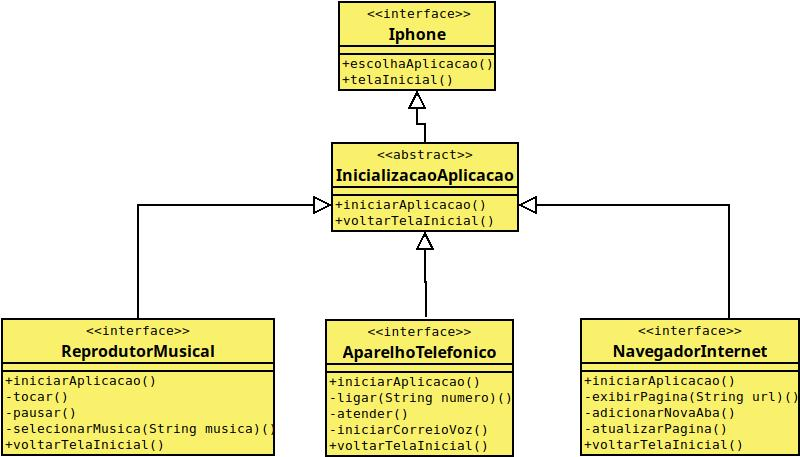
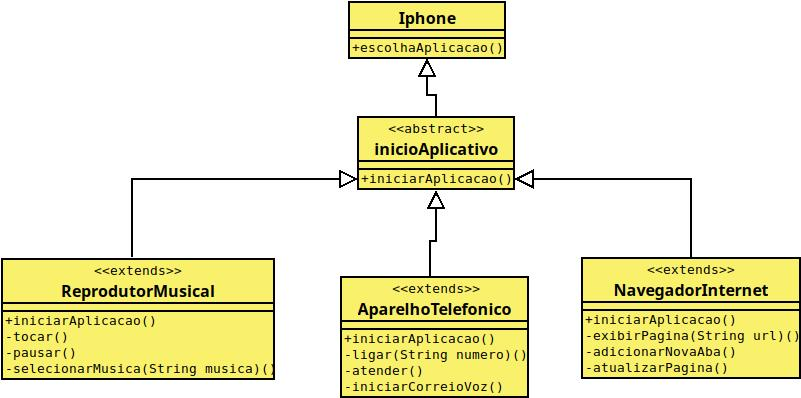
Consegui fazer o desafio

Changed region(s): [[0.0, 0.0, 1.0, 1.0]]

diff --git a/desafio/src/telefonico/AparelhoTelefonico.java b/desafio/src/telefonico/AparelhoTelefonico.java
@@ -1,0 +1,63 @@
+package telefonico;
+
+import java.util.Scanner;
+import inicio.inicioAplicativo;
+import iphone.Iphone;
+import java.util.InputMismatchException;
+import java.util.Locale;
+
+public class AparelhoTelefonico extends inicioAplicativo{
+	Scanner leitor = new Scanner(System.in);
+	
+	public void iniciarAplicacao() {
+		try {
+			System.out.println("============");
+			System.out.println(" 1 - Relizar ligação\n 2 - Atender Ligação\n 3 - Gravar um correio de Voz\n 4 - Voltar para tela inicial(vt)");
+			System.out.println("Digite uma das opções:");
+			int opcao = leitor.nextInt();
+		
+			switch(opcao) {
+			case 1:{
+				System.out.println("Digite o numero:");
+				leitor.next();
+				String numero = leitor.nextLine();
+				ligar(numero);
+				break;
+			}
+			case 2:{
+				atender();
+				break;
+			}
+			case 3:{
+				iniciarCorreioVoz();
+				break;
+			}
+			case 4:{
+				Iphone.escolhaAplicacao(null);
+				break;
+			}
+			default:
+				System.out.println("Opção Invalida.");
+				iniciarAplicacao();
+			}		
+			leitor.close();
+		}catch(InputMismatchException e){
+			System.out.println("Informe um valor valido!");
+			Iphone.escolhaAplicacao(null);
+		}
+	}
+
+
+
+
+	private void ligar(String numero) {
+		System.out.println("Chamando ...");
+	}
+	private void atender() {
+		System.out.println("Ligação em andamento");
+	}
+	private void iniciarCorreioVoz() {
+		System.out.println("Mensagem encaminhada para o correio de voz");
+	}
+
+}

diff --git a/desafio/src/navegador/NavegadorInternet.java b/desafio/src/navegador/NavegadorInternet.java
@@ -1,0 +1,61 @@
+package navegador;
+
+import java.util.Scanner;
+import inicio.inicioAplicativo;
+import java.util.InputMismatchException;
+import java.util.Locale;
+import iphone.Iphone;
+
+public class NavegadorInternet extends inicioAplicativo{
+	Scanner leitor = new Scanner(System.in);
+	
+	public void iniciarAplicacao() {
+		try {
+			System.out.println("============");
+			System.out.println(" 1 - Pesquisar\n 2 - Adicionar uma nova aba\n 3 - Atualizar Pagina\n 4 - Voltar para tela inicial");
+			System.out.println("O que você deseja?");
+			int opcao = leitor.nextInt();
+		
+			switch(opcao){
+				case 1:{
+					System.out.println("Campo de pesquisa:");
+					leitor.next();
+					String url = leitor.nextLine();
+					exibirPagina(url);
+					break;
+				}
+				case 2:{
+					adicionarNovaAba();
+					break;
+				}
+				case 3:{
+					atualizarPagina();
+					break;
+				}
+				case 4:{
+					Iphone.escolhaAplicacao(null);
+					break;
+				}
+				default:
+					System.out.println("Opção Invalida.");
+					iniciarAplicacao();
+			}		
+			leitor.close();
+		}catch(InputMismatchException e){
+			System.out.println("Informe um valor valido!");
+			Iphone.escolhaAplicacao(null);
+		}
+	}
+	
+	
+	
+	private void exibirPagina(String url) {
+		System.out.println("Exibindo: " + url);
+	}
+	private void adicionarNovaAba() {
+		System.out.println("Adicionando nova aba");
+	}
+	private void atualizarPagina() {
+		System.out.println("Pagina atualizada");
+	}
+}

diff --git a/desafio/src/musica/ReprodutorMusical.java b/desafio/src/musica/ReprodutorMusical.java
@@ -1,0 +1,64 @@
+package musica;
+
+import java.util.InputMismatchException;
+import java.util.Scanner;
+import inicio.inicioAplicativo;
+import iphone.Iphone;
+import java.util.Locale;
+
+
+public class ReprodutorMusical extends inicioAplicativo{
+	Scanner leitor = new Scanner(System.in);
+	
+	public void iniciarAplicacao() {
+		
+		try {
+			System.out.println("============");
+			System.out.println(" 1 - Play\n 2 - Stop\n 3 - Selecionar\n 4 - Voltar para tela inicial(vt)");
+			System.out.println("O que você deseja?");
+			int opcao = leitor.nextInt();
+		
+			switch(opcao) {
+			case 1:{
+				tocar();
+				break;
+			}
+			case 2:{
+				pausar();
+				break;
+			}
+			case 3:{
+				System.out.println("Informe a musica:");
+				leitor.next();
+				String musica = leitor.nextLine();
+				selecionarMusica(musica);
+				break;
+			}
+			case 4:{
+				Iphone.escolhaAplicacao(null);
+				break;
+			}
+			default:
+				System.out.println("Opção Invalida.");
+				iniciarAplicacao();
+			}
+		
+			leitor.close();		
+		}catch(InputMismatchException e){
+			System.out.println("Informe um valor valido!");
+			Iphone.escolhaAplicacao(null);
+		}
+	}
+	
+
+	private void tocar() {
+		System.out.println("Musica tocando");
+	}
+	private void pausar() {
+		System.out.println("Musica pausada");
+	}
+	private void selecionarMusica(String musica) {
+		System.out.println("Tocando: " + musica);
+	}
+	
+}

diff --git a/desafio/src/iphone/Iphone.java b/desafio/src/iphone/Iphone.java
@@ -1,0 +1,50 @@
+package iphone;
+
+import java.util.InputMismatchException;
+import java.util.Scanner;
+import java.util.Locale;
+import musica.ReprodutorMusical;
+import telefonico.AparelhoTelefonico;
+import navegador.NavegadorInternet;
+
+public class  Iphone {
+	public static void escolhaAplicacao(String[] args) {
+		try {
+		System.out.println("==================================================================");
+		System.out.println("Parabens por utilizar Iphone! ^-^");	
+		
+		Scanner leitor = new Scanner (System.in);		
+
+		System.out.println("Escolha uma de nossas aplicações informando sua letra:");
+		System.out.println(" Aparelho Telefonico(1)\n Navegador Internet(2)\n Reprodutor Musical(3)");
+		int opcao = leitor.nextInt();
+		
+		
+			switch(opcao) {
+				case 1:{
+					AparelhoTelefonico at = new AparelhoTelefonico();
+					at.iniciarAplicacao();
+					break;
+				}
+				case 2:{
+					NavegadorInternet nav = new NavegadorInternet();
+					nav.iniciarAplicacao();
+					break;
+				}
+				case 3:{
+					ReprodutorMusical msc = new ReprodutorMusical();
+					msc.iniciarAplicacao();
+					break;
+				}
+				default:
+					System.out.println("Opção Invalida.");
+					Iphone.escolhaAplicacao(null);
+			}
+			leitor.close();
+		}catch(InputMismatchException e){
+			System.out.println("Informe um valor valido!");
+			Iphone.escolhaAplicacao(null);
+		}
+		
+	}				
+}

diff --git a/desafio/src/inicio/inicioAplicativo.java b/desafio/src/inicio/inicioAplicativo.java
@@ -1,0 +1,5 @@
+package inicio;
+
+public abstract class inicioAplicativo {
+	public abstract void iniciarAplicacao();
+}
